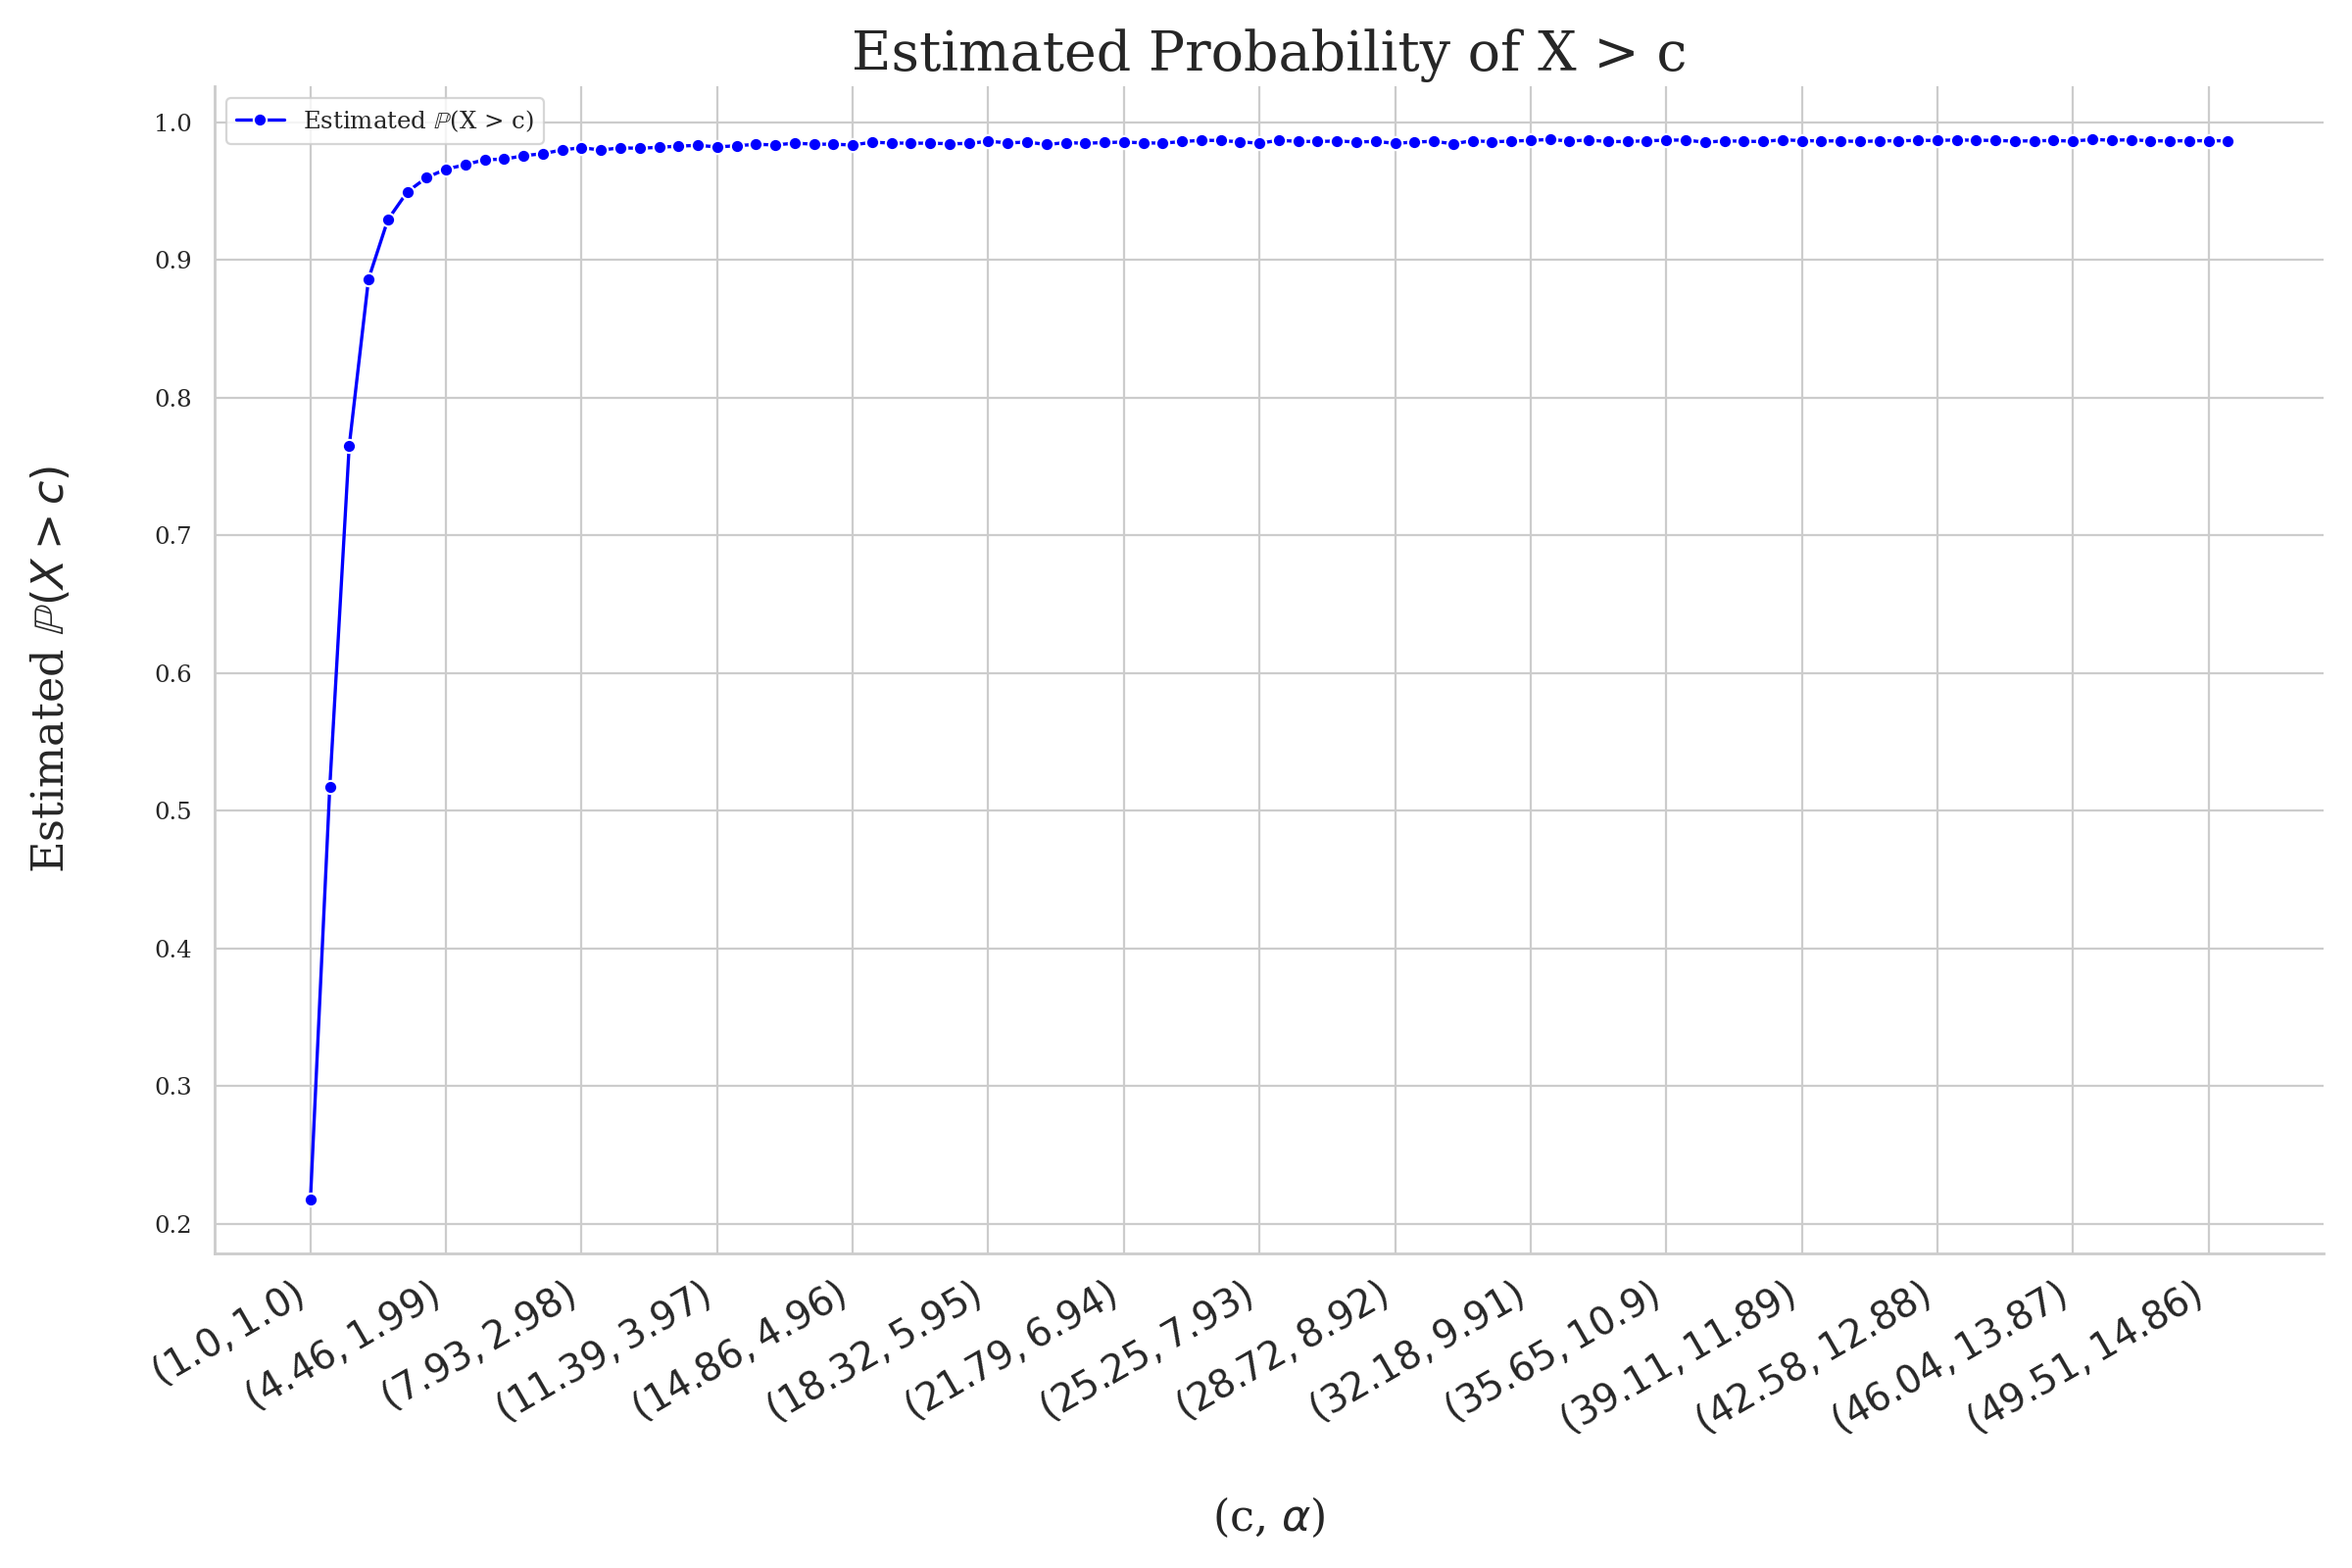
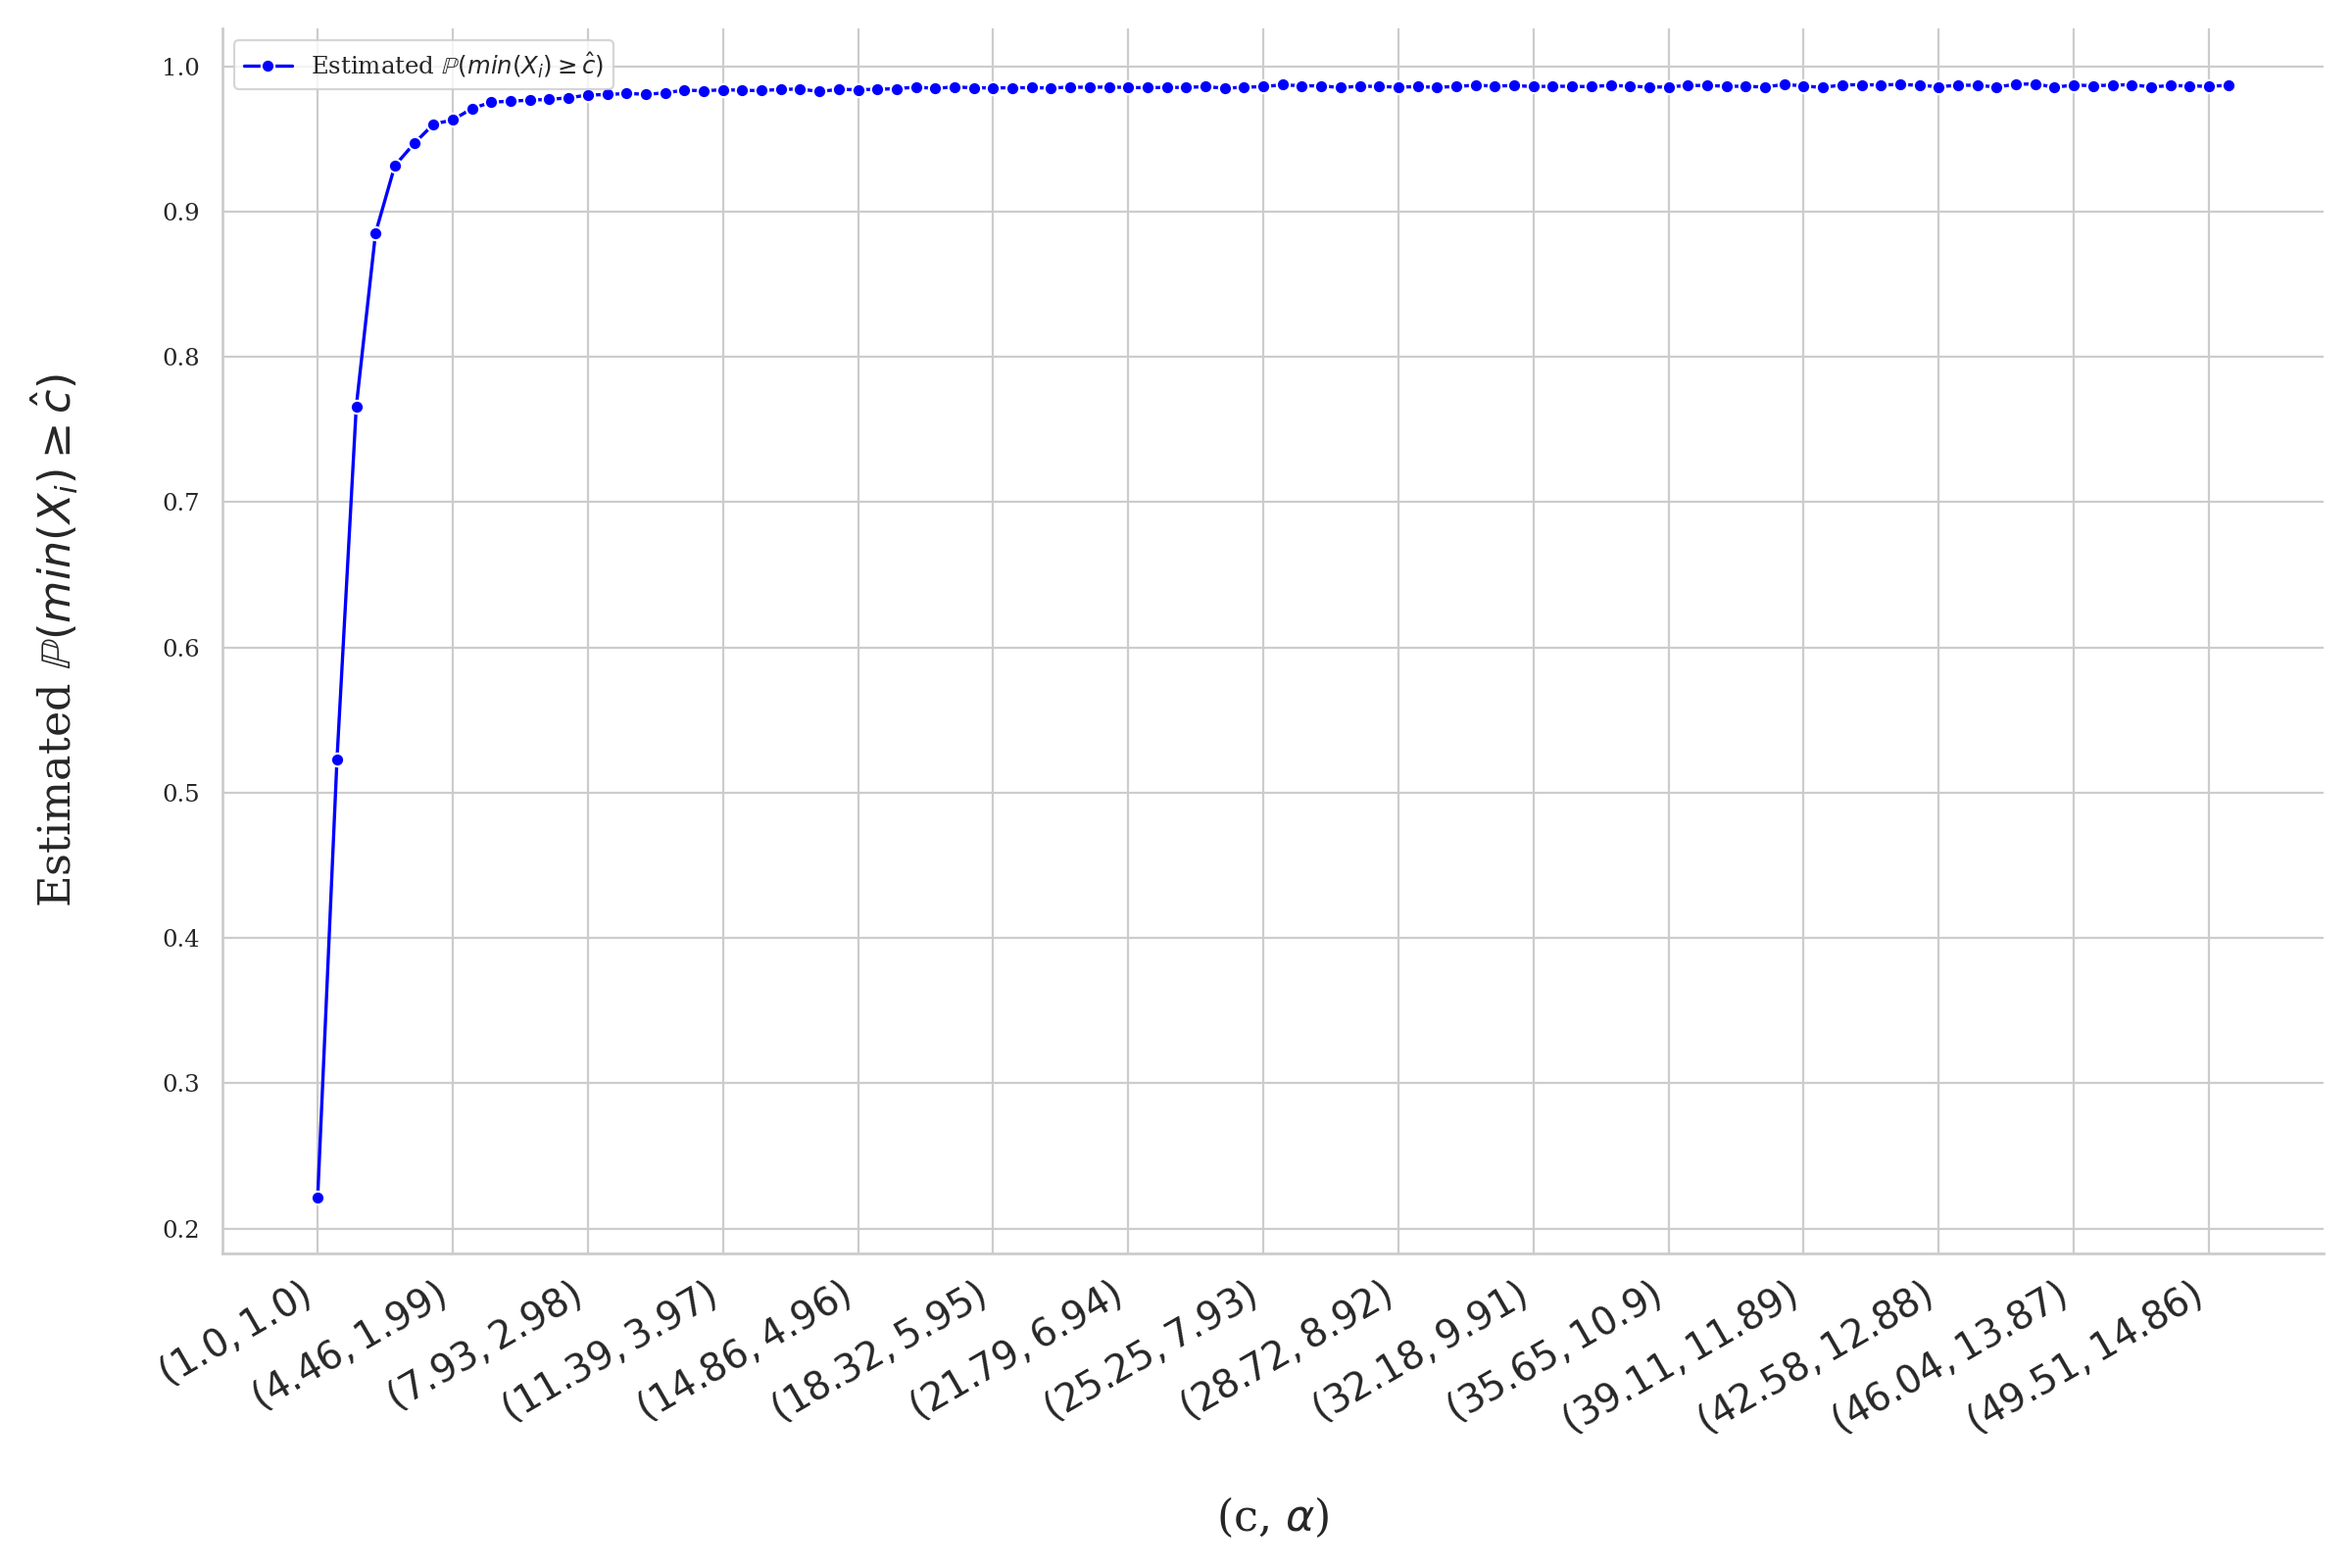
corrected error in MM estimation

diff --git a/lib/pareto.py b/lib/pareto.py
@@ -13,7 +13,7 @@ matplotlib.rcParams['font.family'] = 'serif'
 def perform_experiment(N, repeat, cs, alphas):
     """
     Generates N i.i.d. Pareto distributed random variables, estimates its parameters c and alpha
-    and counts the number of random variables that are smaller than c.
+    and counts the number of random variables that are at least c.
     Then repeats the experiment [repeat] times and calculates the estimated probability.
     """
     p = []
@@ -32,15 +32,14 @@ def plot_prob(p, cs, alphas):
     """
     fig, ax = plt.subplots(figsize=(12, 8))
     x_labels = [f"$({c}, {alpha})$" for c, alpha in zip(cs, alphas)]
-    sns.lineplot(x=range(len(p)), y=p, ax=ax, marker="o", label=r"Estimated $\mathbb{P}$(X > c)", color='blue')
+    sns.lineplot(x=range(len(p)), y=p, ax=ax, marker="o", label=r"Estimated $\mathbb{P}(min(X_i) \geq \hat{c})$", color='blue')
 
     ax.set_xlabel(r"(c, $\alpha$)", fontsize=16, labelpad=20)
-    ax.set_ylabel(r"Estimated $\mathbb{P}(X > c)$", fontsize=16, labelpad=30)
+    ax.set_ylabel(r"Estimated $\mathbb{P}(min(X_i) \geq \hat{c})$", fontsize=16, labelpad=30)
     n = 7  # Keeps every 7th label for readability
     ax.set_xticks(range(0, len(x_labels), n))
     ax.set_xticklabels([x_labels[i] for i in range(0, len(x_labels), n)], rotation=30, ha="right", fontsize=14)
     
-    ax.set_title(r"Estimated Probability of X > c", fontsize=20)
     sns.despine()
     plt.tight_layout()
 
